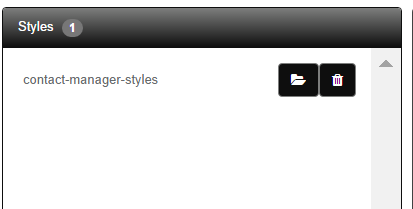
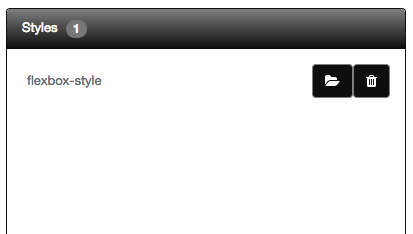
Worked on styles document.

Changed region(s): [[0.0, 0.0287, 1.0, 1.0], [0.0581, 0.3158, 0.4068, 0.4306]]

diff --git a/docs/basics/styles/readme.md b/docs/basics/styles/readme.md
@@ -45,6 +45,6 @@ The following is a screen shot of the Settings tab in the designer showing `cont
 
 Save your changes and then click on the Preview button to see your styles in action. The following is a screenshot of using the above style:
 
-![Style Execution](../../assets/images/randomusers-preview.png)
+![Style Execution](../../assets/images/tutorials/flexbox.png)
 
-Refer to the [ REST API Screen Tutorial ](../../tutorials/randomuser-screen.md) for tutorial on using your own styles.
+Refer to the [ Flexbox Tutorial ](../../tutorials/flexbox-screen.md) for tutorial on using your own styles.
